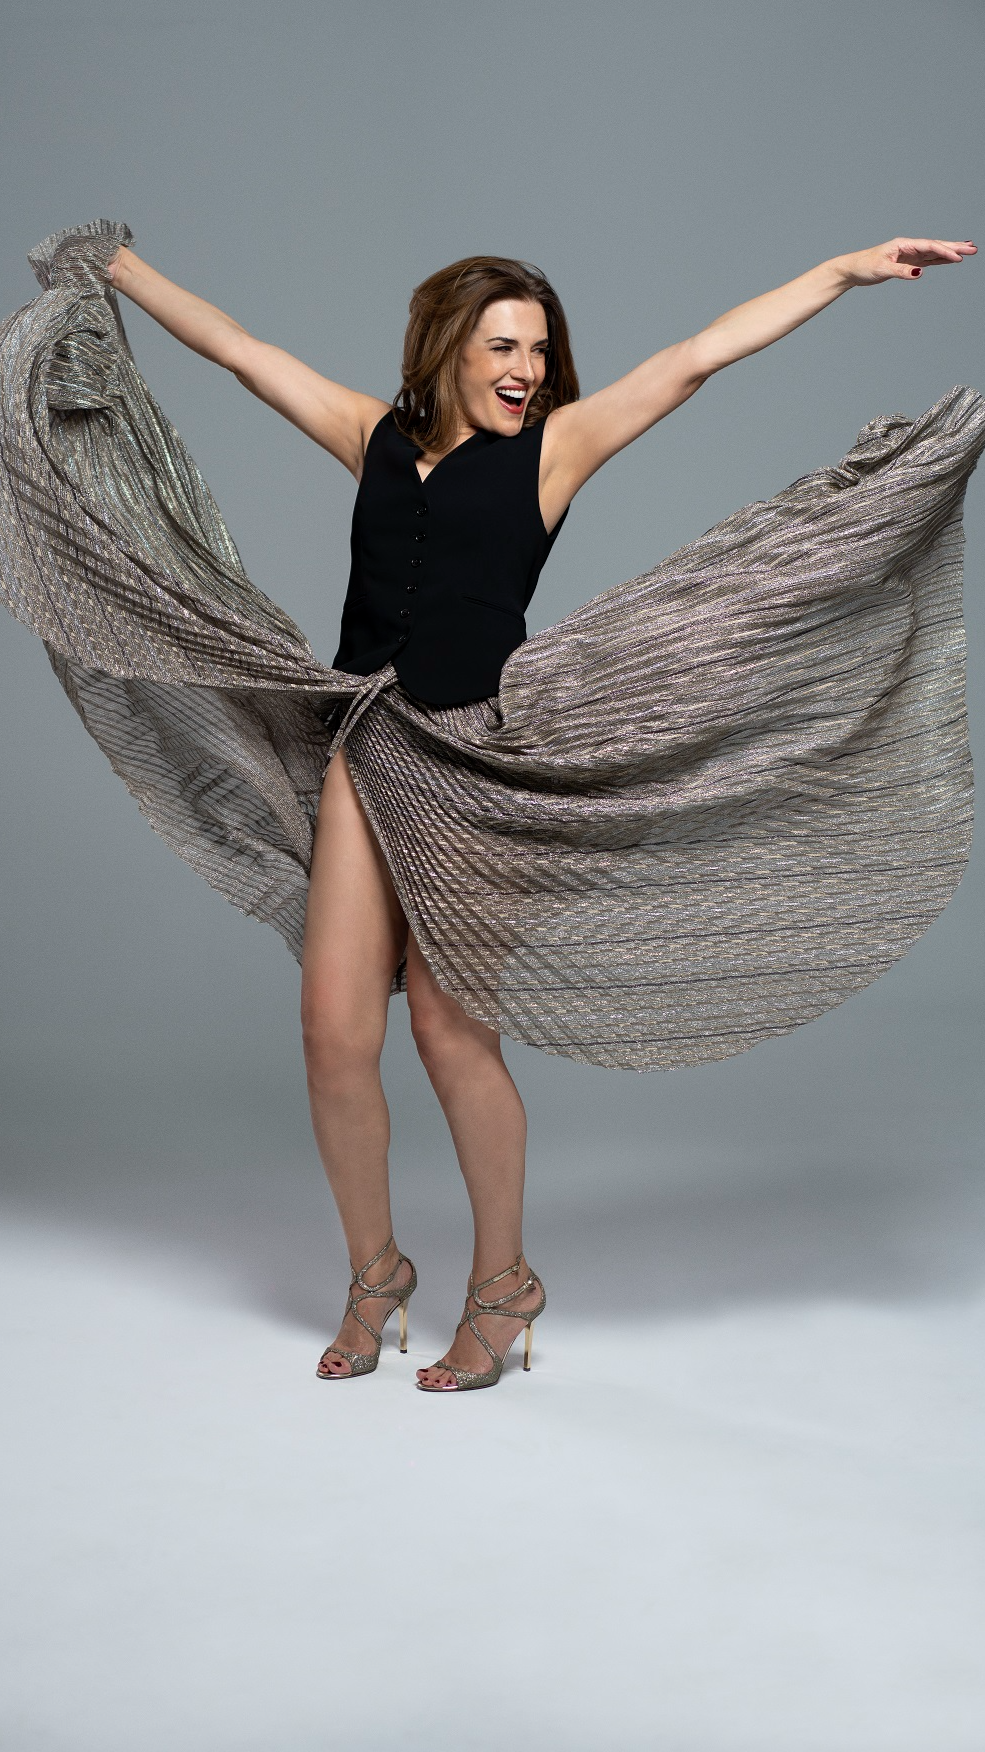
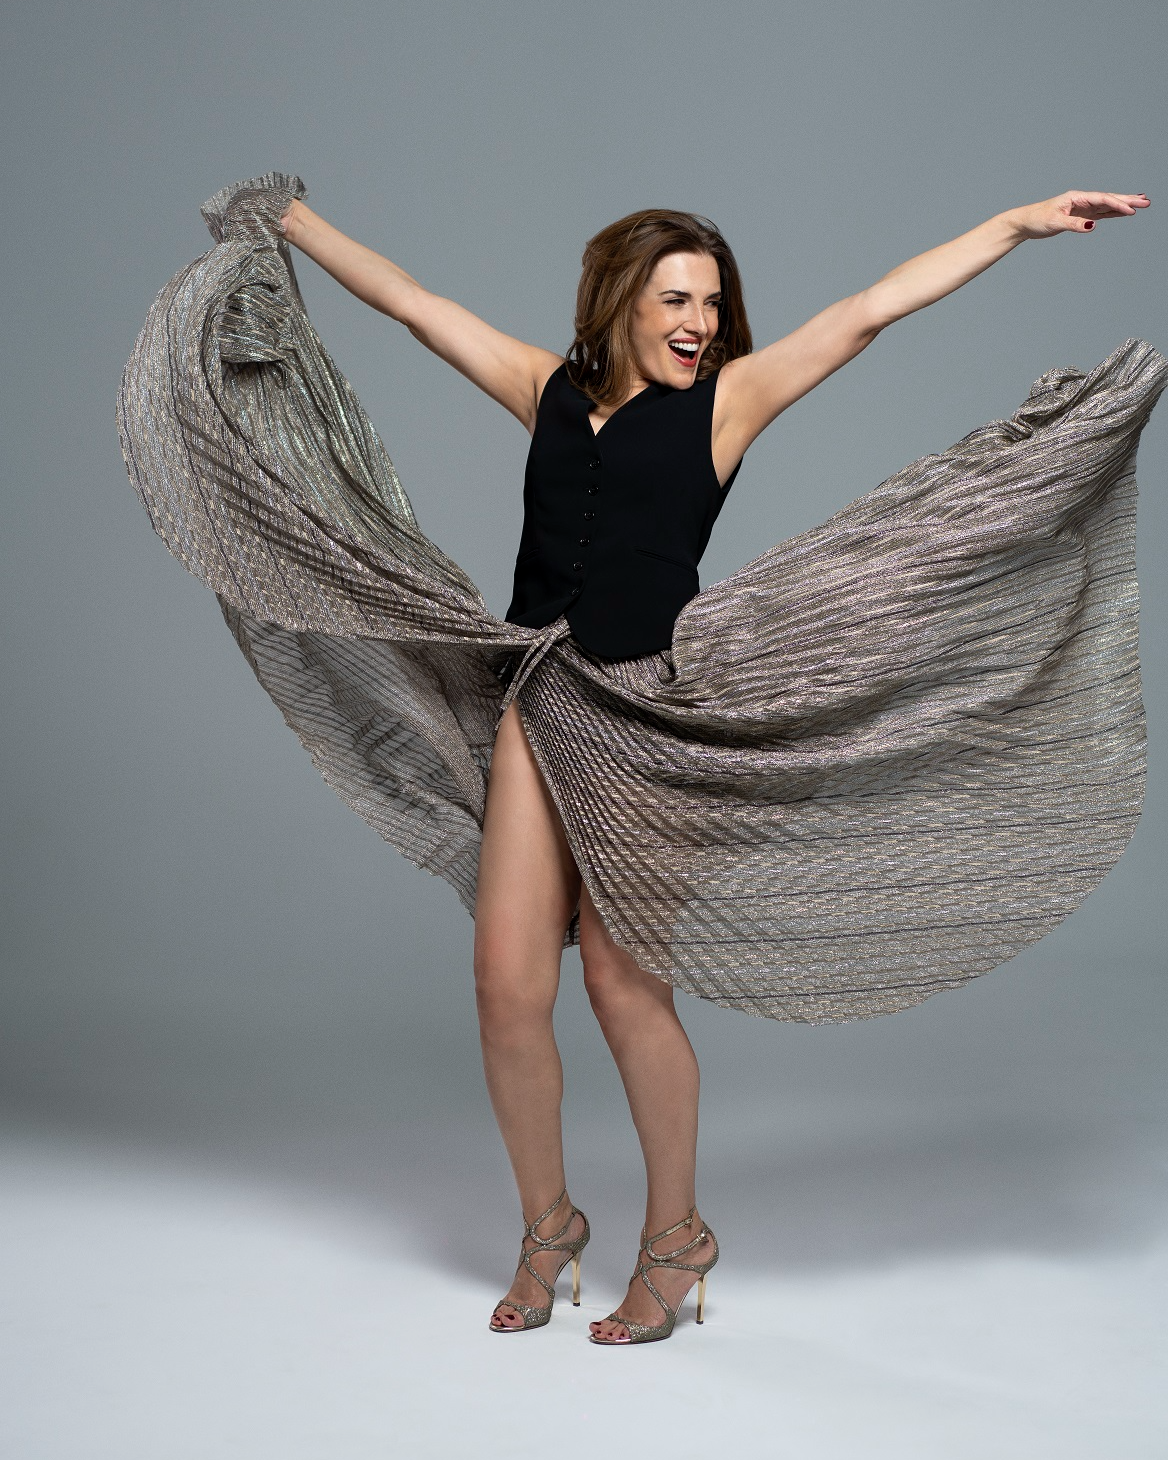
Bio ve News sayfaları revize edildi

diff --git a/web/src/components/News.js b/web/src/components/News.js
@@ -25,11 +25,13 @@ const textStyle = {
 
 const bodyStyle = {
     paddingTop: 110,
+    height: "100%"
 }
 const MainRow = {
   marginLeft:"5%",
   marginRight: "%5",
-  paddingBottom: 30
+  paddingBottom: 30,
+  height: "100%"
 }
 
 
@@ -77,7 +79,7 @@ const newsChoice = (data) => {
                 <Image src={imageUrlBuilder(bigNews.ImageUrl)} height="390px" width="100%" style={{objectFit: "cover"}}/> 
                 {/* 848px */}
                 <Title style={titleStyle} >{bigNews.Title}</Title>
-                <Paragraph>
+                <Paragraph style={{overflow: "auto", height:220}}>
                   <EditorRead text={bigNews.Text}/>
                 </Paragraph>
           </Col>      
@@ -98,11 +100,12 @@ const newsChoice = (data) => {
                 }
                 endMessage={<Divider plain>End of the news</Divider>}
                 scrollableTarget="scrollableDiv"
+                style={{backgroundColor:'white'}}
               >
                 <List
                   dataSource={data}
                   renderItem={(item) => (
-                    <List.Item key={item._id}>
+                    <List.Item key={item._id} >
                       <Link onClick={() => newsChoice(item)}>
                         <Row style={{ margin: 5, backgroundColor:"white"}}>
                           <Col flex="0 1 200px">                  
@@ -116,7 +119,7 @@ const newsChoice = (data) => {
                               <Paragraph ellipsis={{rows: 3,}} height="100%"><EditorRead text={item.Text}/></Paragraph>
                             </Row>
                             <Row>
-                              <Paragraph style={{color:"red"}} >Read More</Paragraph>
+                              <Paragraph style={{color:"red"}}>Read More</Paragraph>
                             </Row>
                           </Col>
                         </Row>

diff --git a/web/src/components/Bio.js b/web/src/components/Bio.js
@@ -9,8 +9,9 @@ const { Title, Paragraph, Text, Link } = Typography;
 const textStyle = {
   fontFamily: "Raleway",
   fontWeight: 500,
-  height: "100%",
+  height: 400,
   paddingLeft: "20%",
+  overflow: "auto"
 };
 
 const titleStyle = {
@@ -29,18 +30,22 @@ const mainDivStyle = {
 const rightColStyle = {
   paddingTop: "5px",
   width: "60%",
+  position: "relative"
 };
 function Bio({ data }) {
   return (
     <div style={mainDivStyle}>
       <Row>
-        <Col flex="40%">
-          <img
+        <Col flex="40%" style={{ paddingTop:"50%"}}>
+          <div style={{position: "absolute", bottom: "0px", width:"100%",}}>
+            <img
             height="auto"
             width="100%"
             style={{ objectFit: "cover" }}
             src={imageUrlBuilder(data.ImageUrl)}
           />
+          </div>
+          
         </Col>
         <Col flex="auto" style={rightColStyle}>
           <Row>

diff --git a/web/src/components/admin/biography/BiographyEditModal.js b/web/src/components/admin/biography/BiographyEditModal.js
@@ -56,7 +56,7 @@ function BiographyEditModal({ visible, record, onCancel, onOk }) {
           <CropContainer
             image={""}
             cropImage={(e) => setCropImage(e)}
-            aspect={9 / 16}
+            aspect={4 / 5}
           ></CropContainer>
           <div style={{ display: "flex", justifyContent: "center" }}>
             {cropImage ? (

diff --git a/web/src/components/admin/biography/BiographyContainer.js b/web/src/components/admin/biography/BiographyContainer.js
@@ -48,8 +48,8 @@ const BiographyContainer = ({ data }) => {
             <Image
               src={imageUrlBuilder(data.ImageUrl)}
               alt="Biography photo"
-              width={"600"}
-              height={"1066"}
+              width={"400"}
+              height={"500"}
               unoptimized
             />
           </div>
